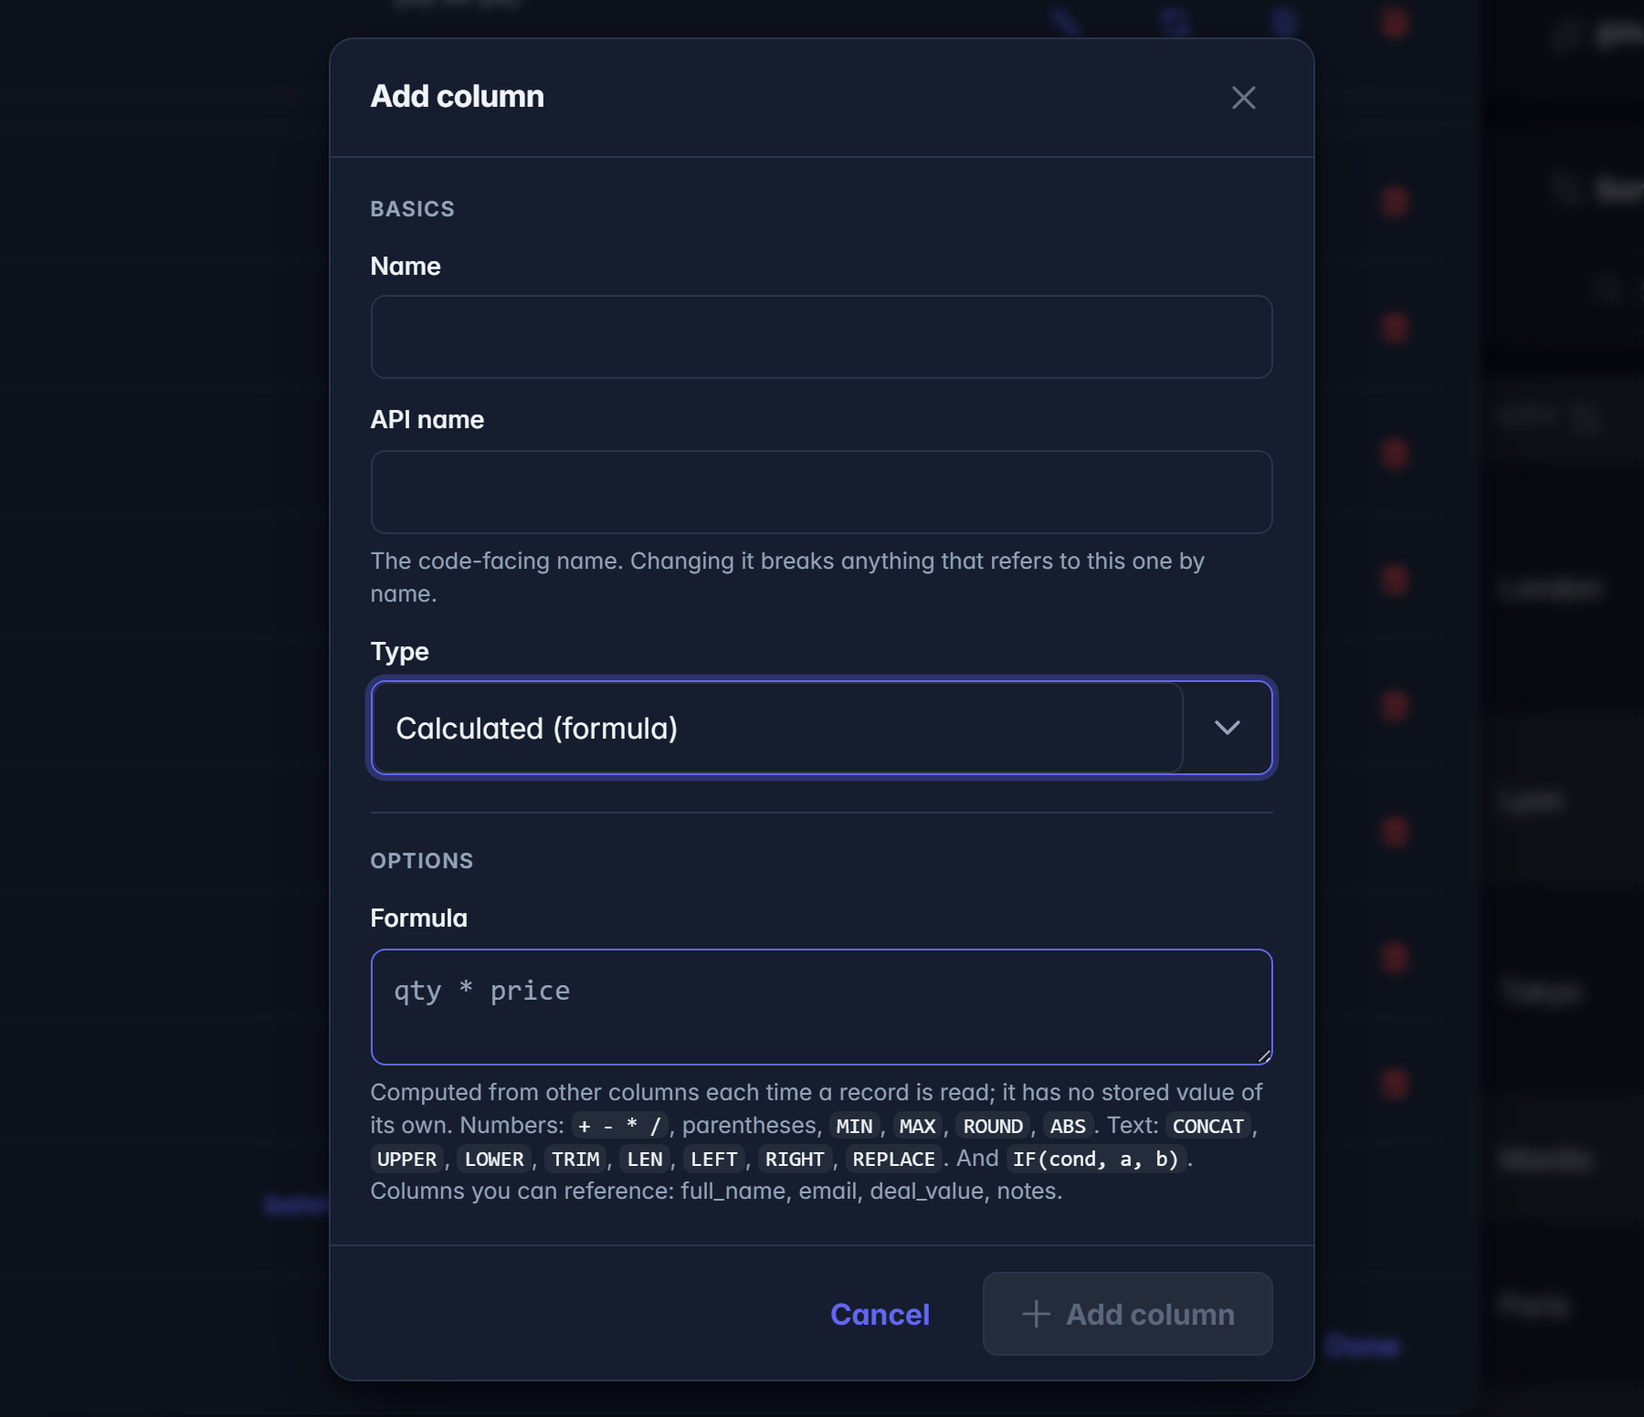
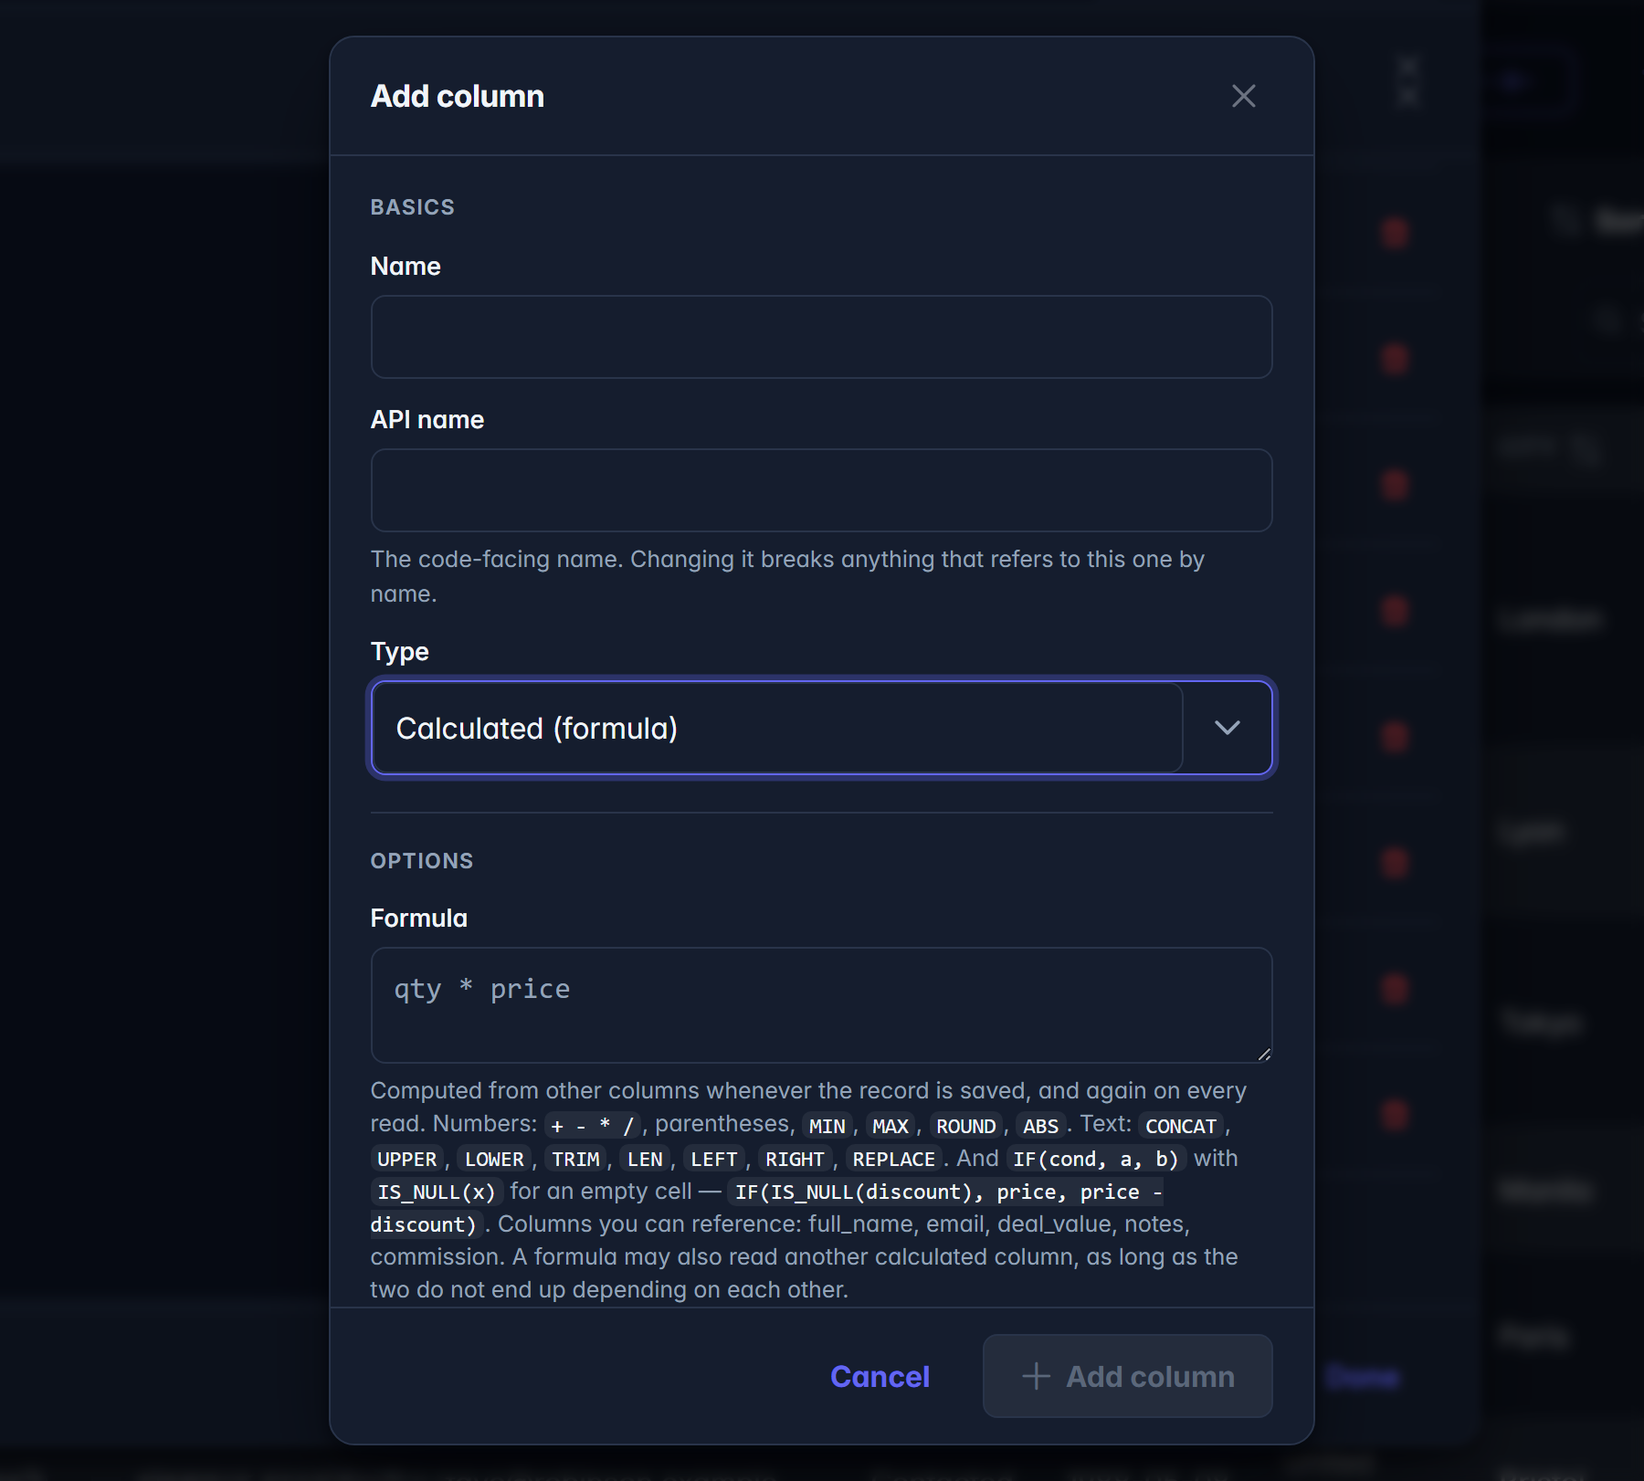
Let a calculated column be unique
The refusal dated from when a calculated column stored nothing: a constraint on a
value nobody kept was meaningless, and the comment said so. That stopped being true
when the computed value started being written into the record as a query index, and
the reason to keep refusing -- "two rows computing the same answer says something
about the formula, not about anything a writer typed" -- turns out to be the argument
*for* the feature rather than against it. A formula is how you express a key that no
single column holds. `CONCAT(course, "-", section)` says "this pair may appear once",
and there is no other way to say it here: uniqueness is per column, and the pair
lives in two.

It needed no enforcement work. `_validate_data` computes every calculated cell over
the settled record and `_enforce_unique` runs after it, on both create and update and
on the import path that calls the same pair -- so the answer being checked is already
this write's rather than the previous one's, and the JSONB containment probe reads the
stored index like any other cell. What the check needed was words: the writer edited
an operand, so "that value already exists" would complain about a cell they never
touched. A computed collision now names the column and the value the row worked out.

Uniqueness is judged against the *index* of the other rows, and that is the one place
a stale index costs more than a misordered row. Between a formula edit and a re-index
[…]

diff --git a/frontend/src/features/columns/ColumnDialog.tsx b/frontend/src/features/columns/ColumnDialog.tsx
@@ -421,9 +421,10 @@ export function ColumnDialog({
   // which is not what anyone means by a unique column. Hide it, and clear it.
   const multiValued =
     (type === "user" || type === "group" || type === "lookup") && multiple;
-  // A calculated column's only writer is its formula, so required and unique have
-  // nothing to act on — nobody can supply a value to require, and two rows sharing
-  // an answer says something about the formula, not about what anyone typed.
+  // A calculated column's only writer is its formula, so `required` has nothing to
+  // act on — there is no value for anyone to leave blank. `Unique` does: it asks
+  // whether two rows may compute the same answer, which is how a formula expresses
+  // a key no single column holds. So the section is shown, minus Required.
   const isCalculated = type === "calculated";
 
   // Types that offer an auto-stamp on write (a "last modified" date, "edited by" user).
@@ -449,7 +450,7 @@ export function ColumnDialog({
       // stored one, so leaving it out would preserve a `true` this dialog is
       // currently hiding — a constraint still enforced but no longer visible.
       const config: Record<string, unknown> = isCalculated
-        ? { formula: formula.trim() }
+        ? { formula: formula.trim(), unique }
         : {
             required,
             unique: multiValued ? false : unique,
@@ -1168,8 +1169,8 @@ export function ColumnDialog({
           </FormSection>
         )}
 
-        {!isCalculated && (
-          <FormSection title="Validation">
+        <FormSection title="Validation">
+          {!isCalculated && (
             <CheckboxField
               inputId="col-required"
               checked={required}
@@ -1177,21 +1178,23 @@ export function ColumnDialog({
               label="Required"
               hint="A record cannot be saved with this one left blank."
             />
-            {!multiValued && (
-              <CheckboxField
-                inputId="col-unique"
-                checked={unique}
-                onChange={setUnique}
-                label="Unique"
-                hint={
-                  editing && !column.config.unique && unique
-                    ? "Existing duplicates are left alone — this is checked when a record is saved, so they surface the next time one of them is edited."
+          )}
+          {!multiValued && (
+            <CheckboxField
+              inputId="col-unique"
+              checked={unique}
+              onChange={setUnique}
+              label="Unique"
+              hint={
+                editing && !column.config.unique && unique
+                  ? "Existing duplicates are left alone — this is checked when a record is saved, so they surface the next time one of them is edited."
+                  : isCalculated
+                    ? "No two records may work out to the same answer. The record being saved is refused, even though the value came from the formula rather than from anything typed."
                     : "No two records may hold the same value."
-                }
-              />
-            )}
-          </FormSection>
-        )}
+              }
+            />
+          )}
+        </FormSection>
       </div>
     </AppDialog>
   );

diff --git a/frontend/src/features/guide/GuidePage.tsx b/frontend/src/features/guide/GuidePage.tsx
@@ -898,8 +898,9 @@ export function GuidePage() {
           <ul className="flex flex-col gap-1 m-0">
             <li>
               The formula is the only thing that writes it, so you can’t type into
-              it, give it a <Ui>Default value</Ui>, or mark it <Ui>Required</Ui> or{" "}
-              <Ui>Unique</Ui>.
+              it, give it a <Ui>Default value</Ui>, or mark it <Ui>Required</Ui> —
+              there’s no cell for anyone to fill in or leave blank.{" "}
+              <Ui>Unique</Ui> is the exception, and it’s below.
             </li>
             <li>
               It can read another calculated column, but the two can’t end up
@@ -935,6 +936,17 @@ export function GuidePage() {
           blank — no error, and the saved copy that sorting uses goes blank with it.
           After renaming, open the calculated column and update
           the formula to match.
+        </Callout>
+        <Callout tone="tip" title="Unique: a key made of several columns">
+          Tick <Ui>Unique</Ui> on a calculated column and no two records may work
+          out to the same answer — <Code>CONCAT(course, "-", section)</Code> is how
+          you say “this pair may only appear once”, which no single column can. The
+          record you’re saving is refused, even though you were editing the columns
+          the formula reads rather than the answer itself, so the message names the
+          calculated column and the value it worked out. Two things it won’t do:
+          existing duplicates are left alone until one of them is next saved, and
+          changing the formula so that records collide doesn’t go back and complain
+          about them either.
         </Callout>
       </Section>
 

diff --git a/backend/tests/test_calculated_column.py b/backend/tests/test_calculated_column.py
@@ -239,21 +239,111 @@ async def test_a_calculated_column_named_like_a_function_can_be_referenced(
     assert created.json()["data"][resp.json()["uuid"]] == 12
 
 
-async def test_a_calculated_column_cannot_be_unique(client, priced_list):
-    # Meaningless while nothing was stored. Now that something is, `_enforce_unique`
-    # would start rejecting writes because two rows computed the same answer — a
-    # property of the formula, not of anything the writer typed.
+async def test_a_calculated_column_can_be_unique(client, priced_list):
+    # A formula is how you express a key no single column holds. It works because
+    # `_validate_data` writes the computed cell before `_enforce_unique` reads it,
+    # so the check sees this write's answer rather than the previous one.
+    lst, qty, price = priced_list["list"], priced_list["qty"], priced_list["price"]
+    resp = await client.post(
+        f"/api/lists/{lst}/columns/",
+        json={
+            "name": "key",
+            "display_name": "Key",
+            "type": "calculated",
+            "config": {"formula": "qty * price", "unique": True},
+        },
+    )
+    assert resp.status_code == 201, resp.text
+
+    first = await client.post(
+        f"/api/lists/{lst}/items/", json={"data": {qty: 3, price: 10}}
+    )
+    assert first.status_code == 201, first.text
+
+    # Different operands, same answer — which is exactly what a unique formula is
+    # asked to refuse, and the message says so rather than blaming a typed value.
+    clash = await client.post(
+        f"/api/lists/{lst}/items/", json={"data": {qty: 5, price: 6}}
+    )
+    assert clash.status_code == 409, clash.text
+    assert "computes" in clash.text.lower()
+
+    # A different answer still saves.
+    ok = await client.post(
+        f"/api/lists/{lst}/items/", json={"data": {qty: 5, price: 7}}
+    )
+    assert ok.status_code == 201, ok.text
+
+
+async def test_editing_into_a_taken_answer_is_refused(client, priced_list):
+    # The collision an edit causes: nothing about the *unique* column was touched,
+    # so this is the case the wording has to survive.
+    lst, qty, price = priced_list["list"], priced_list["qty"], priced_list["price"]
+    resp = await client.post(
+        f"/api/lists/{lst}/columns/",
+        json={
+            "name": "key",
+            "display_name": "Key",
+            "type": "calculated",
+            "config": {"formula": "qty * price", "unique": True},
+        },
+    )
+    assert resp.status_code == 201, resp.text
+
+    await client.post(f"/api/lists/{lst}/items/", json={"data": {qty: 3, price: 10}})
+    other = await client.post(
+        f"/api/lists/{lst}/items/", json={"data": {qty: 4, price: 10}}
+    )
+    uuid = other.json()["uuid"]
+
+    clash = await client.patch(
+        f"/api/lists/{lst}/items/{uuid}", json={"data": {qty: 3}}
+    )
+    assert clash.status_code == 409, clash.text
+    assert "key" in clash.text
+
+    # And a record does not collide with itself: re-saving the same operands is fine.
+    same = await client.patch(
+        f"/api/lists/{lst}/items/{uuid}", json={"data": {qty: 4}}
+    )
+    assert same.status_code == 200, same.text
+
+
+async def test_a_blank_computed_value_does_not_collide(client, priced_list):
+    # `_enforce_unique` skips empty values, and an incomplete row computes to blank —
+    # so a unique formula must not make "not filled in yet" a one-record-only state.
+    lst, qty, price = priced_list["list"], priced_list["qty"], priced_list["price"]
+    resp = await client.post(
+        f"/api/lists/{lst}/columns/",
+        json={
+            "name": "key",
+            "display_name": "Key",
+            "type": "calculated",
+            "config": {"formula": "qty * price", "unique": True},
+        },
+    )
+    assert resp.status_code == 201, resp.text
+
+    first = await client.post(f"/api/lists/{lst}/items/", json={"data": {qty: 3}})
+    assert first.status_code == 201, first.text
+    second = await client.post(f"/api/lists/{lst}/items/", json={"data": {qty: 4}})
+    assert second.status_code == 201, second.text
+
+
+async def test_a_calculated_column_still_cannot_have_a_default(client, priced_list):
+    # The other half of the pair, and the reason they part company: a default is a
+    # value somebody supplies, and the formula would overwrite it on the same write.
     resp = await client.post(
         f"/api/lists/{priced_list['list']}/columns/",
         json={
-            "name": "u",
-            "display_name": "U",
+            "name": "d",
+            "display_name": "D",
             "type": "calculated",
-            "config": {"formula": "qty * 2", "unique": True},
+            "config": {"formula": "qty * 2", "default": 5},
         },
     )
     assert resp.status_code == 400, resp.text
-    assert "unique" in resp.text.lower()
+    assert "default" in resp.text.lower()
 
 
 async def test_a_number_column_named_like_a_function_still_works(client, list_uuid):

diff --git a/backend/src/lists/items/services.py b/backend/src/lists/items/services.py
@@ -1112,7 +1112,17 @@ class ListItemService:
         data: dict,
         exclude_id: Optional[int],
     ) -> None:
-        """Reject records that duplicate a value on a column marked unique."""
+        """Reject records that duplicate a value on a column marked unique.
+
+        Runs after `_validate_data`, which is what lets a `calculated` column be
+        unique: by now this record's computed cells are in ``data``, so the answer
+        being checked is the one this write produces. The rows it is checked
+        *against* are read as stored, which for a calculated column is the query
+        index — so between a formula edit and a re-index, uniqueness is judged
+        against the answers the old formula gave. That window admits both a false
+        conflict and a missed one; `POST /lists/{uuid}/columns/recompute` closes it,
+        and the nightly sweep closes it eventually.
+        """
         unique_columns = {
             key: column
             for key, column in columns.items()
@@ -1141,6 +1151,15 @@ class ListItemService:
                 stmt = stmt.where(ListItem.id != exclude_id)
             existing = (await db.execute(stmt.limit(1))).scalars().first()
             if existing is not None:
+                # A calculated column gets its own wording. The writer did not type
+                # the value that collided — they edited an operand — so a message
+                # about "that value" would be about something they cannot see in
+                # front of them, and would read as a complaint about the wrong cell.
+                if column.type in COMPUTED_TYPES:
+                    raise ConflictError(
+                        f"Column '{column.name}' must be unique; this record computes "
+                        f"{value!r}, which another record already has"
+                    )
                 raise ConflictError(
                     f"Column '{column.name}' must be unique; that value already exists"
                 )

diff --git a/backend/src/lists/columns/services.py b/backend/src/lists/columns/services.py
@@ -445,12 +445,15 @@ class ColumnService:
                     )
             if data.get("default") is not None:
                 raise ValidationError("A calculated column cannot have a default")
-            if data.get("unique"):
-                # Meaningless while nothing was stored, and a trap now that something
-                # is: `_enforce_unique` reads the record, so this would start rejecting
-                # writes because two rows computed the same answer — which is a
-                # property of the formula, not of anything the writer typed.
-                raise ValidationError("A calculated column cannot be unique")
+            # `unique` *is* allowed, unlike `default`. A default is a value somebody
+            # supplies and the formula would immediately overwrite; uniqueness is a
+            # question about the answer, and a formula is a perfectly good way to
+            # express a key that no single column holds — `CONCAT(course, section)`,
+            # say. `_validate_data` writes calculated cells before `_enforce_unique`
+            # reads them, so the check sees this write's answer, not the last one's.
+            # What it compares against is the stored index of the *other* rows, so a
+            # formula edit that has not been re-indexed yet is judged against the old
+            # answers; see the note on staleness in `_enforce_unique`.
 
             # Self-reference used to be caught by the type check (the column was among
             # its own siblings and was not a `number`). Now that `calculated` is

diff --git a/backend/src/lists/columns/schemas.py b/backend/src/lists/columns/schemas.py
@@ -19,7 +19,11 @@ class ColumnConfig(BaseModel):
     # re-stamped onto the cell on create and on every edit (see columns/validation).
     onupdate: Any = None
     help_text: Optional[str] = None
-    unique: bool = False  # enforced: no two records may share the value
+    # Enforced: no two records may share the value. On a `calculated` column it is
+    # the *computed answer* that may not repeat — a formula is how a key spanning
+    # several columns is expressed — so the record refused is one whose operands
+    # were edited rather than one that typed the value.
+    unique: bool = False
     placeholder: Optional[str] = None  # UI hint, not enforced
     read_only: bool = False  # UI hint, not enforced
     # text

diff --git a/docs/known-gaps.md b/docs/known-gaps.md
@@ -193,8 +193,19 @@ The remaining edges:
   decided by *where it sits*, not how it is spelled: `column_refs` reports every value-position
   name, including the four that collide with function names (`min`, `max`, `round`, `abs`, all
   valid slugs). Reporting those as functions is what used to let a formula over one skip these
-  checks entirely. A calculated column also cannot be `unique`: two rows computing the same
-  answer says something about the formula, not about anything a writer typed.
+  checks entirely.
+- **A calculated column may be `unique`, and it is judged against the index.** It is how you
+  express a key no single column holds (`CONCAT(course, section)`), and it works because
+  `_validate_data` writes the computed cell before `_enforce_unique` reads it — the answer
+  checked is this write's. The rows it is checked *against* are read as stored, so between a
+  formula edit and a re-index uniqueness is judged on the answers the old formula gave: a
+  false conflict, or a missed one, until `POST /lists/{uuid}/columns/recompute` or the
+  nightly sweep runs. This is the one place a stale index is more than a misordered row, and
+  it is left that way rather than recomputing every row of the list on every write. Two other
+  edges follow from the check being per-write: turning `unique` on leaves existing duplicates
+  alone (they surface the next time one of them is saved), and a re-index that *creates*
+  duplicates writes them without complaint. `default` is still refused — a value somebody
+  supplies is exactly what a formula overwrites.
 - **Exports carry the computed value; templates and imports do not.** The export **computes**
   rather than reading the stored copy (`shape_values` over the streamed rows), because a file
   leaves the app and nothing can correct it afterwards — it is the last place that should trust

diff --git a/docs/data-model-design.md b/docs/data-model-design.md
@@ -332,9 +332,13 @@ Notes:
   an explicit action: `POST /lists/{uuid}/columns/recompute`, offered by the column dialog
   right after a formula edit, with the nightly `recompute_calculated` as the backstop. A
   formula may reference another `calculated` column — `columns/chain.py` topologically sorts
-  the chain so it settles in one pass per write, and refuses cycles at save time — but never
-  carry a `default` or `unique`, neither of which means anything when nobody supplies the
-  value. Full details and the costs in [known gaps §5](known-gaps.md).
+  the chain so it settles in one pass per write, and refuses cycles at save time. It never
+  carries a `default`, which means nothing when the formula overwrites it on the same write,
+  but it **may be `unique`**: that is a question about the answer, and a formula is how a key
+  no single column holds gets expressed. The check runs after the computed cell is written,
+  so it sees this write's answer — and compares it against the other rows' *index*, which is
+  the one place staleness costs more than a misordered row. Full details and the costs in
+  [known gaps §5](known-gaps.md).
 - The set is extensible: adding e.g. `email`, `attachment`, `rating` is just a new enum
   member + `config` convention — no migration of the *records*, since `data` is JSONB.
   **The `ColumnType` enum itself does need a hand-written migration** — autogenerate is blind
